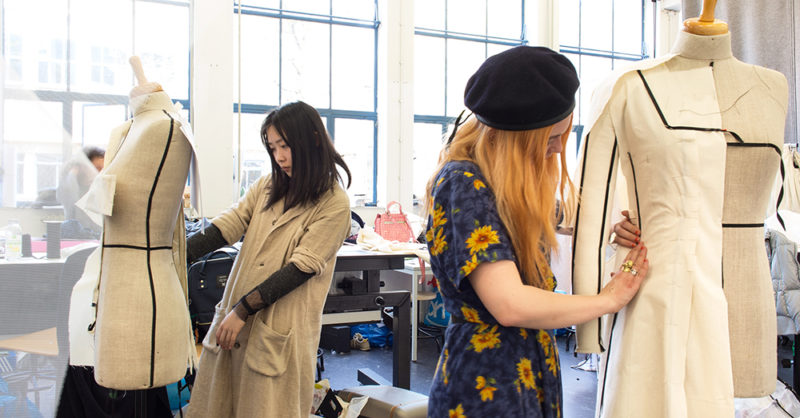
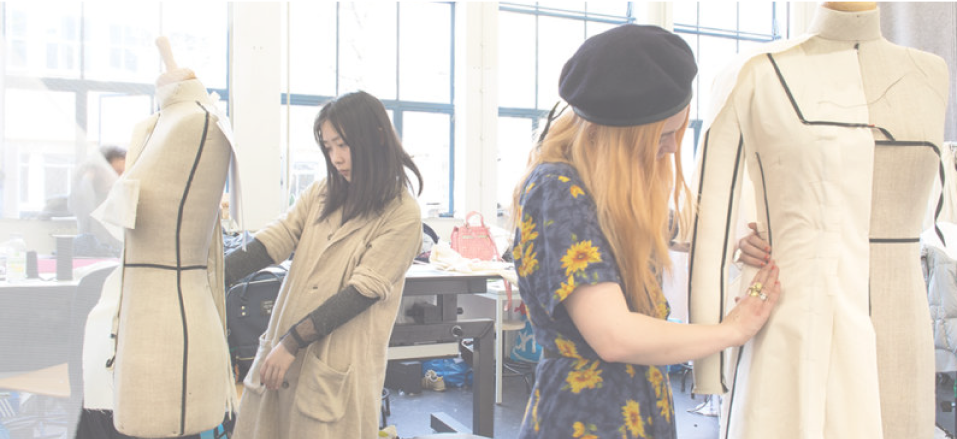
Agrego media queries

diff --git a/css/main.css b/css/main.css
@@ -21,17 +21,16 @@ body {
     padding: 0%; }
 
 #seccion-1 {
-  background-image: url(../img/portadas/portada-home-m.jpg);
+  background-image: url(../img/portadas/portada-home-sm-1.jpg);
   background-size: cover;
   background-repeat: no-repeat;
   background-position: center;
   width: 100%;
-  height: 100%; }
+  height: 367px; }
   #seccion-1 .s1-wrapper {
     display: grid;
     justify-content: flex-end;
-    grid-template-columns: 220px;
-    grid-template-rows: 260px 107px; }
+    height: 100%; }
     #seccion-1 .s1-wrapper .s1-cont-1 {
       display: grid;
       grid-template-rows: 28px 28px 28px 28px 60px;
@@ -39,7 +38,7 @@ body {
       justify-content: flex-end; }
     #seccion-1 .s1-wrapper .s1-cont-2 {
       display: flex;
-      justify-content: end;
+      justify-content: flex-end;
       align-items: flex-end; }
 
 #seccion-2 {
@@ -96,8 +95,7 @@ body {
   align-items: center; }
   #seccion-4 .img-qs {
     width: 100%;
-    height: 145px;
-    opacity: 0.80; }
+    height: 145px; }
 
 #footer {
   display: grid;
@@ -250,3 +248,29 @@ body {
   height: 30px;
   max-width: 100%;
   margin-top: 40px; }
+
+/* MEDIA QUERIES */
+@media screen and (min-width: 375px) {
+  .img-qs {
+    height: 170px; } }
+
+@media screen and (min-width: 425px) {
+  #seccion-1 {
+    background-image: url(../img/portadas/portada-home-sm-3.jpg);
+    height: 487px; }
+  .s1-wrapper {
+    padding-right: 16px; }
+  .titulos-s1 {
+    font-size: 20px; }
+  .botones {
+    font-size: 18px; }
+  .iconos {
+    width: 28px;
+    height: 28px; }
+  .img-qs {
+    height: 194px; } }
+
+@media screen and (min-width: 540px) {
+  #seccion-1 {
+    background-image: url(../img/portadas/portada-home-sm-4.jpg);
+    height: 619px; } }

diff --git a/index.html b/index.html
@@ -60,11 +60,11 @@
 
                 <div class="s1-cont-2">
                     <ul class="redes-container">
-                        <li class="redes-items"><a href="#"><img src="img/iconos/fb-icon.svg" alt="icon.svg"></a></li>
-                        <li class="redes-items"><a href="#"><img src="img/iconos/tw-icon.svg" alt="icon.svg"></a></li>
-                        <li class="redes-items"><a href="#"><img src="img/iconos/pt-icon.svg" alt="icon.svg"></a></li>
-                        <li class="redes-items"><a href="#"><img src="img/iconos/ig-icon.svg" alt="icon.svg"></a></li>
-                        <li class="redes-items"><a href="#"><img src="img/iconos/yt-icon.svg" alt="icon.svg"></a></li>
+                        <li class="redes-items"><a href="#"><img src="img/iconos/fb-icon.svg" alt="icon.svg" class="iconos"></a></li>
+                        <li class="redes-items"><a href="#"><img src="img/iconos/tw-icon.svg" alt="icon.svg" class="iconos"></a></li>
+                        <li class="redes-items"><a href="#"><img src="img/iconos/pt-icon.svg" alt="icon.svg" class="iconos"></a></li>
+                        <li class="redes-items"><a href="#"><img src="img/iconos/ig-icon.svg" alt="icon.svg" class="iconos"></a></li>
+                        <li class="redes-items"><a href="#"><img src="img/iconos/yt-icon.svg" alt="icon.svg" class="iconos"></a></li>
                     </ul>
                 </div>
             </div>

diff --git a/scss/_secciones.scss b/scss/_secciones.scss
@@ -34,22 +34,21 @@ body {
 
 
 #seccion-1 {
-    background-image: url(../img/portadas/portada-home-m.jpg);
+    background-image: url(../img/portadas/portada-home-sm-1.jpg);
     
     background-size: cover;
     background-repeat: no-repeat; 
     background-position: center;
 
     width: 100%;
-    height: 100%;
+    height: 367px;
 
 
     .s1-wrapper {
         display: grid;
         justify-content: flex-end;
-        
-        grid-template-columns: 220px;
-        grid-template-rows: 260px 107px;
+
+        height: 100%;
 
 
         .s1-cont-1 {
@@ -61,7 +60,7 @@ body {
 
         .s1-cont-2 {
             display: flex;
-            justify-content: end;
+            justify-content: flex-end;
             align-items: flex-end;
             }
         
@@ -153,8 +152,6 @@ body {
     .img-qs {
         width: 100%;
         height: 145px;
-
-        opacity: 0.80;
     }
 }
 

diff --git a/scss/_media-queries.scss b/scss/_media-queries.scss
@@ -1,0 +1,49 @@
+/* MEDIA QUERIES */
+
+@media screen and (min-width: 375px) {
+    
+
+    
+
+    
+
+    .img-qs {
+        height: 170px;
+    }
+}
+
+@media screen and (min-width: 425px) {
+    
+    #seccion-1 {
+        background-image: url(../img/portadas/portada-home-sm-3.jpg);
+        height: 487px;
+    }
+    
+    .s1-wrapper {
+        padding-right: 16px;
+    }
+
+    .titulos-s1 {
+        font-size: 20px;
+    }
+
+    .botones {
+        font-size: 18px;
+    }
+
+    .iconos {
+        width: 28px;
+        height: 28px;
+    }
+
+    .img-qs {
+        height: 194px;
+    }
+}
+
+@media screen and (min-width: 540px) {
+    #seccion-1 {
+        background-image: url(../img/portadas/portada-home-sm-4.jpg);
+        height: 619px;
+    }
+}

diff --git a/scss/styles.scss b/scss/styles.scss
@@ -4,3 +4,4 @@
 @import "textos";
 @import "botones";
 @import "estilos-generales";
+@import "media-queries";
